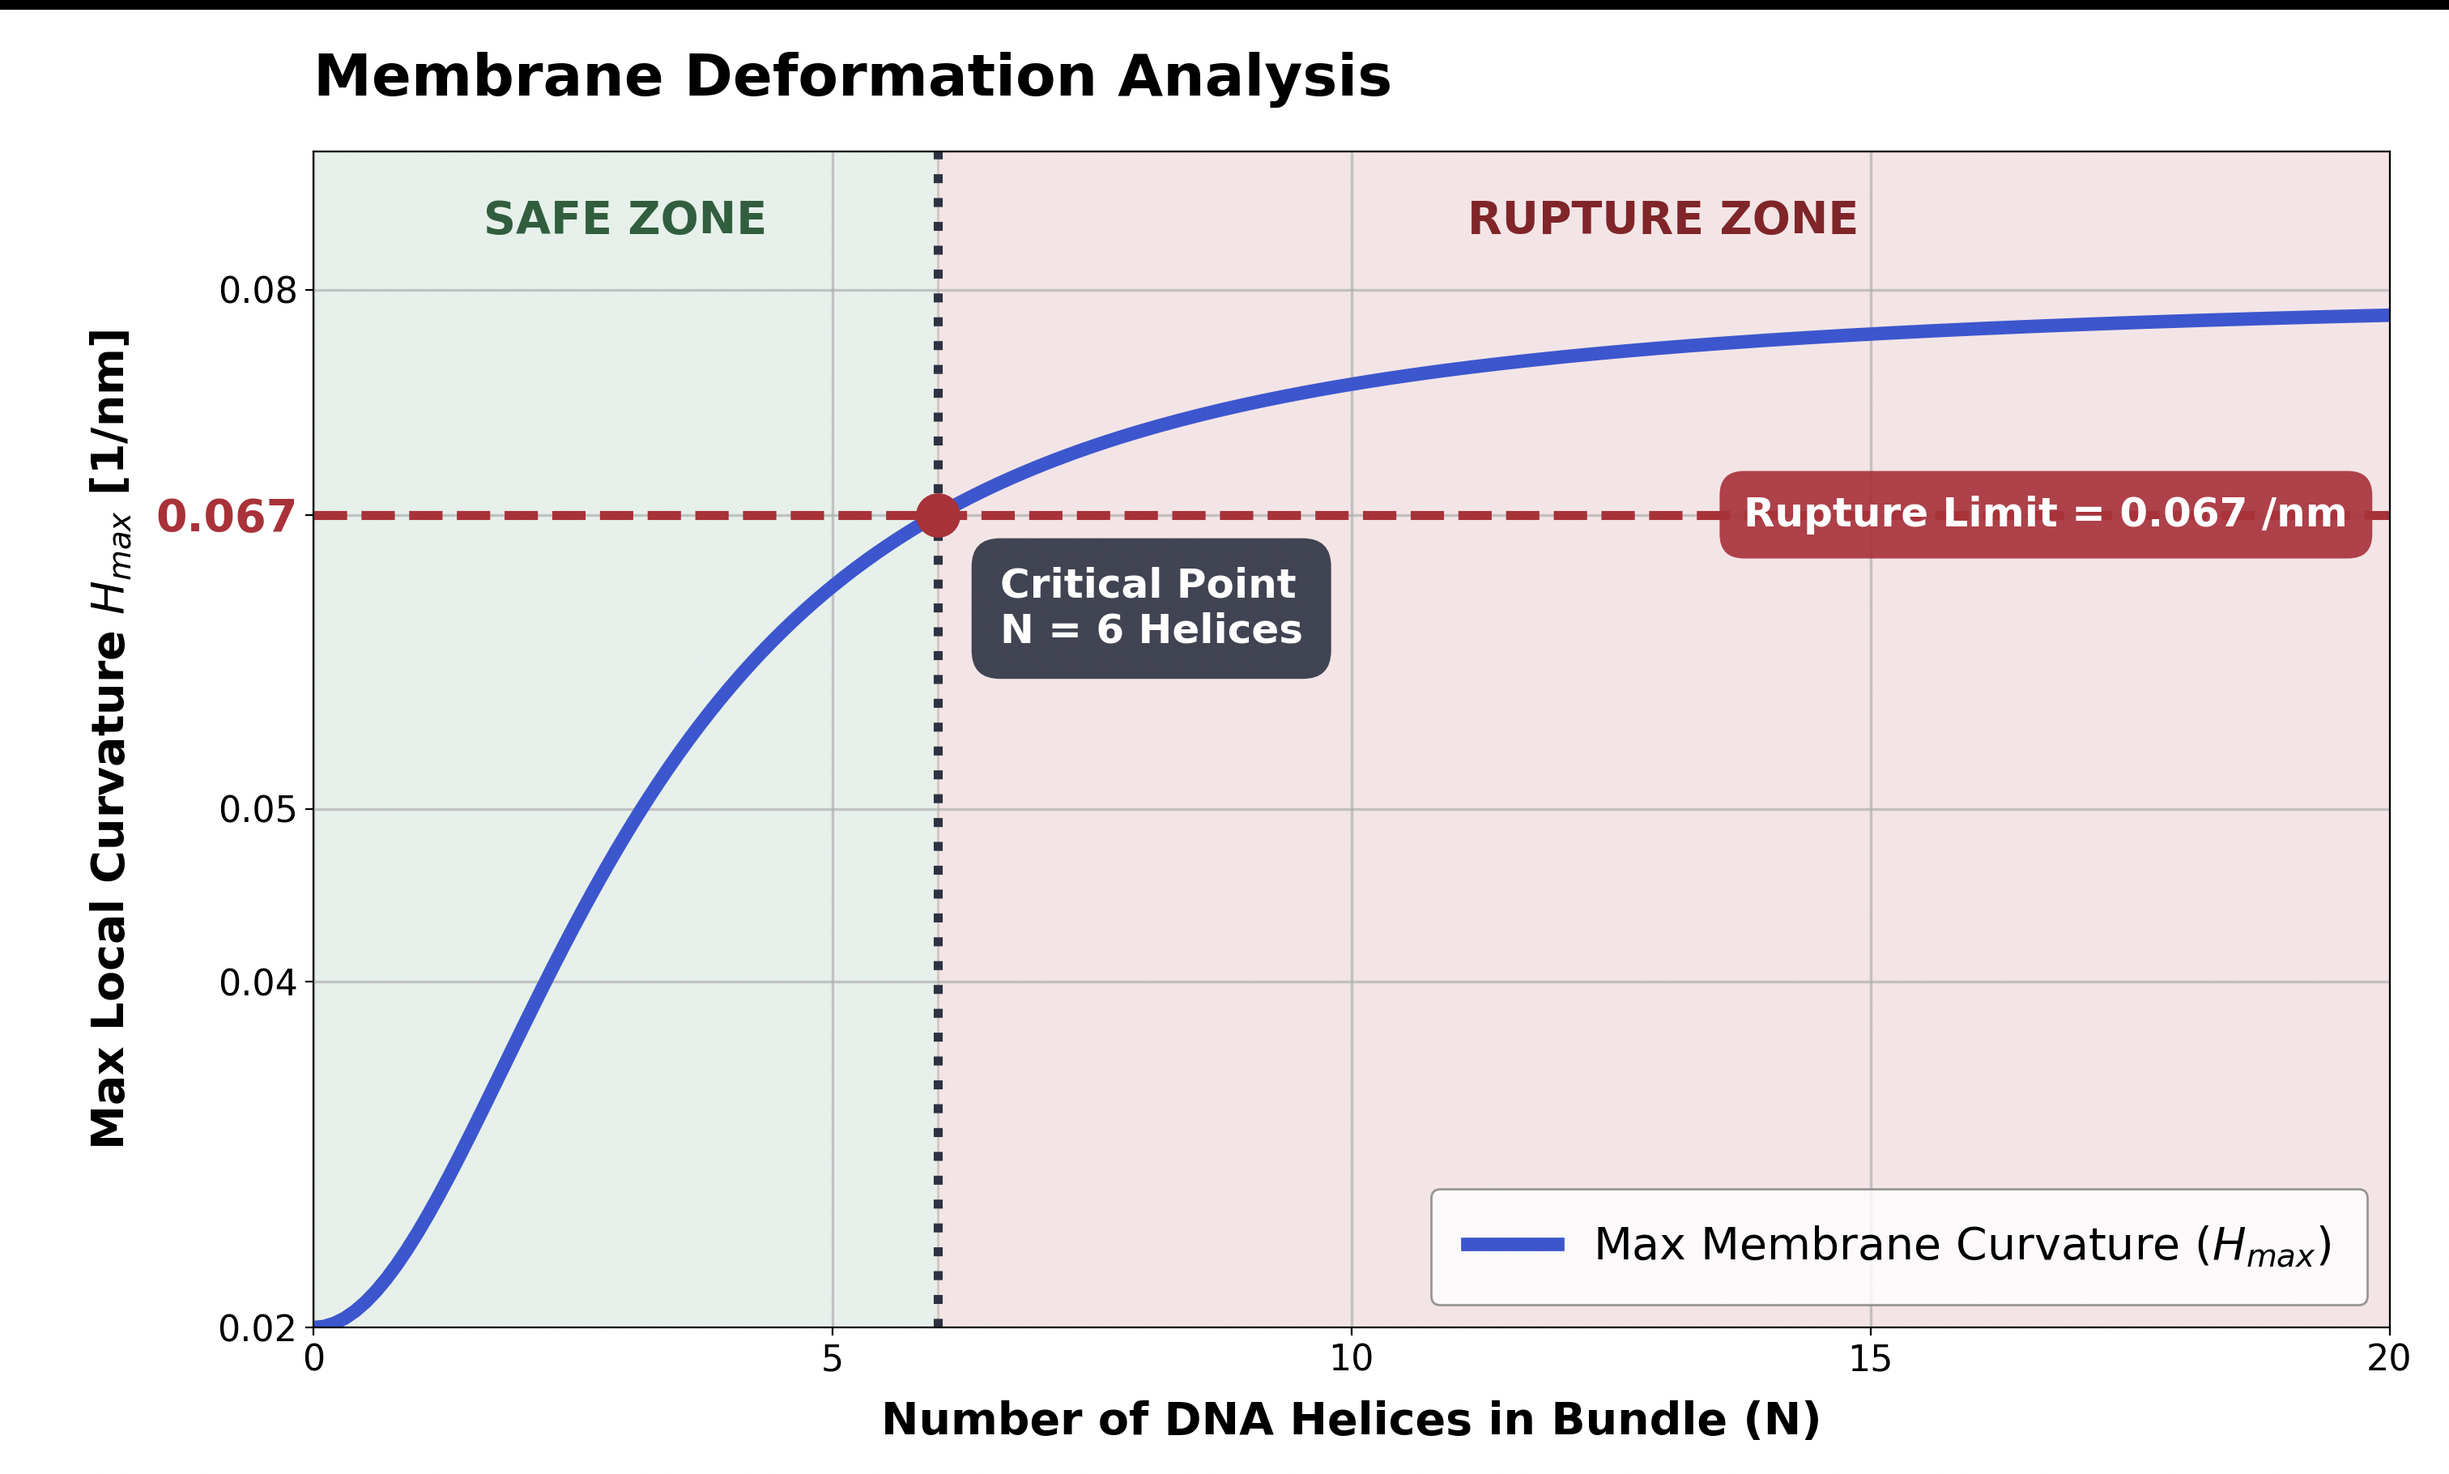
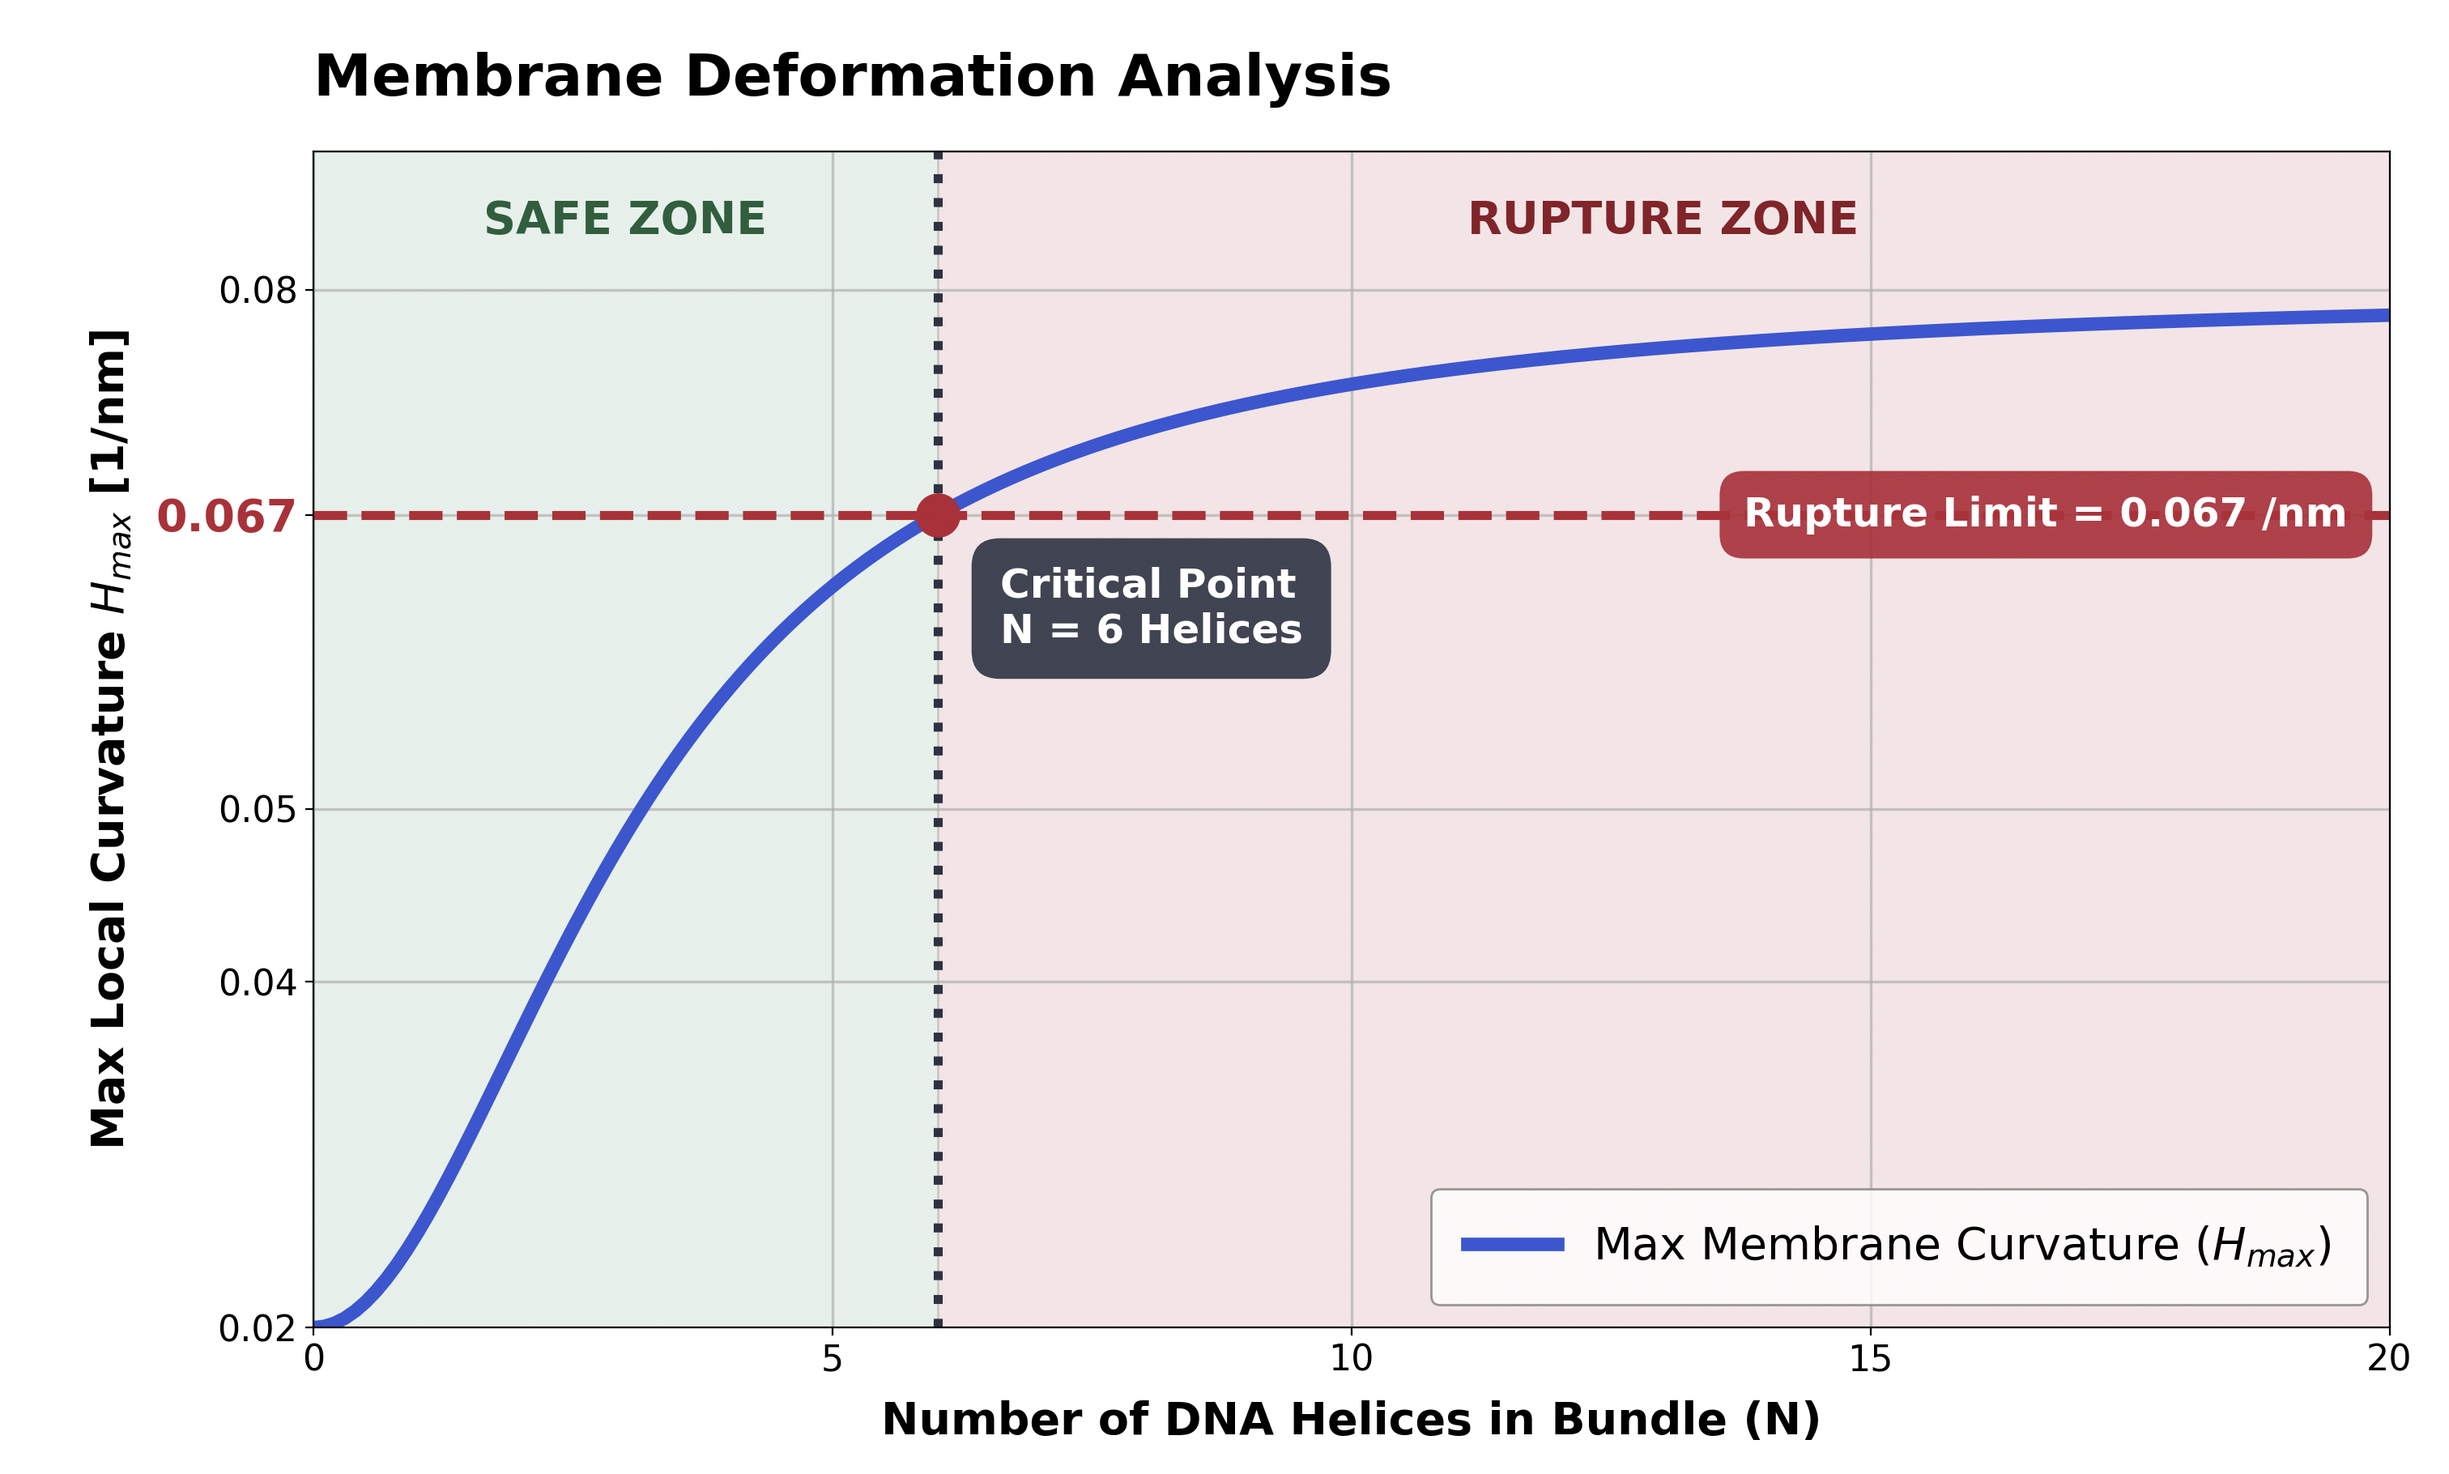
画像の枠修正

Changed region(s): [[0.0, 0.0, 1.0, 0.0308]]

diff --git a/simulation.html b/simulation.html
@@ -274,17 +274,14 @@
                                 the viewer controls to zoom.</p>
                             <div class="row g-3 mb-4 align-items-stretch">
                                 <div class="col-md-9">
-                                    <div class="content-box p-0 h-100">
-                                        <model-viewer class="simulation-model-viewer"
-                                            src="img/SIMULATION/EV_environmentliposome_3Dmodel.glb"
-                                            alt="Interactive 3D liposome model for the EV environment" camera-controls
-                                            touch-action="pan-y" shadow-intensity="1" exposure="1" loading="lazy">
-                                        </model-viewer>
-                                    </div>
+                                    <model-viewer class="simulation-model-viewer"
+                                        src="img/SIMULATION/EV_environmentliposome_3Dmodel.glb"
+                                        alt="Interactive 3D liposome model for the EV environment" camera-controls
+                                        touch-action="pan-y" shadow-intensity="1" exposure="1" loading="lazy">
+                                    </model-viewer>
                                 </div>
                                 <div class="col-md-3">
-                                    <div
-                                        class="content-box p-3 h-100 d-flex justify-content-center align-items-center simulation-colorbar-panel">
+                                    <div class="simulation-colorbar-panel">
                                         <img src="img/SIMULATION/curvature_colorbar.png"
                                             alt="Local membrane curvature color scale in inverse nanometers"
                                             class="simulation-colorbar" loading="lazy" decoding="async">
@@ -416,17 +413,14 @@
                             <h4 class="h5 fw-bold mb-3 section-subtitle">3D Simulation on GUV</h4>
                             <div class="row g-3 mb-4 align-items-stretch">
                                 <div class="col-md-9">
-                                    <div class="content-box p-0 h-100">
-                                        <model-viewer class="simulation-model-viewer"
-                                            src="img/SIMULATION/GUV_environment_liposome_model.glb"
-                                            alt="Interactive 3D liposome model for the GUV simulation" camera-controls
-                                            touch-action="pan-y" shadow-intensity="1" exposure="1" loading="lazy">
-                                        </model-viewer>
-                                    </div>
+                                    <model-viewer class="simulation-model-viewer"
+                                        src="img/SIMULATION/GUV_environment_liposome_model.glb"
+                                        alt="Interactive 3D liposome model for the GUV simulation" camera-controls
+                                        touch-action="pan-y" shadow-intensity="1" exposure="1" loading="lazy">
+                                    </model-viewer>
                                 </div>
                                 <div class="col-md-3">
-                                    <div
-                                        class="content-box p-3 h-100 d-flex justify-content-center align-items-center simulation-colorbar-panel">
+                                    <div class="simulation-colorbar-panel">
                                         <img src="img/SIMULATION/curvature_colorbar.png"
                                             alt="Local membrane curvature color scale in inverse nanometers"
                                             class="simulation-colorbar" loading="lazy" decoding="async">

diff --git a/project.html b/project.html
@@ -60,11 +60,9 @@
                             </p>
                         </div>
                         <!-- 右側：画像 -->
-                        <div class="col-md-5">
-                            <div class="ratio ratio-4x3 content-box p-0" style="background-color: #ffffff;">
-                                <img src="img/PROJECT/Background.png" alt="EV and Cell Concept Diagram"
-                                    class="w-100 h-100 object-fit-contain" loading="lazy" decoding="async">
-                            </div>
+                        <div class="col-md-5 text-center">
+                            <img src="img/PROJECT/Background.png" alt="EV and Cell Concept Diagram"
+                                class="img-fluid" loading="lazy" decoding="async">
                         </div>
                     </div>
 

diff --git a/style.css b/style.css
@@ -524,13 +524,23 @@ section[id],
 }
 
 .simulation-colorbar-panel {
+    display: flex;
+    justify-content: center;
+    align-items: center;
+    width: 100%;
+    height: min(70vh, 640px);
+    min-height: 360px;
     background-color: #ffffff;
+    padding: 1.5rem;
+    box-sizing: border-box;
 }
 
 .simulation-colorbar {
     display: block;
-    width: 100%;
-    max-height: min(70vh, 640px);
+    max-width: 100%;
+    max-height: 100%;
+    width: auto;
+    height: auto;
     object-fit: contain;
 }
 
